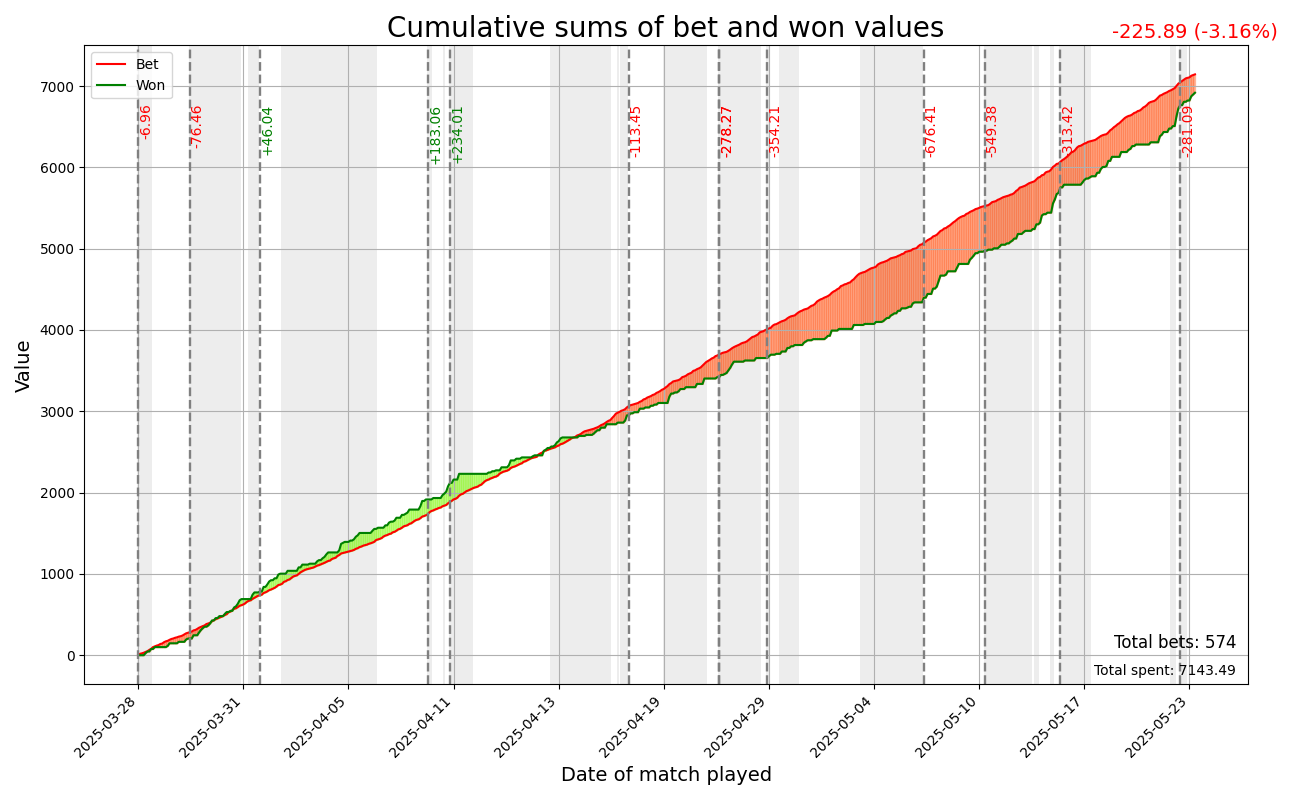
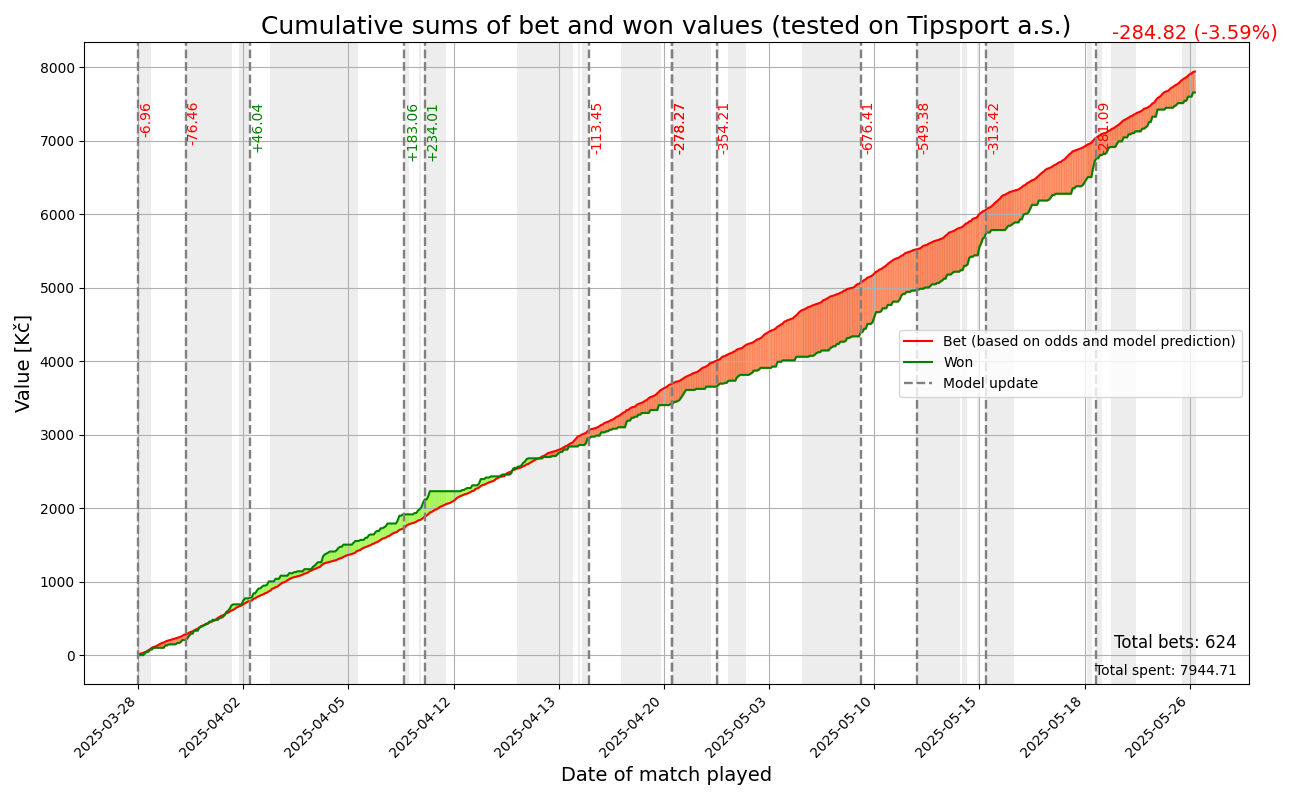
Update records file and graph

diff --git a/src/apifootball_model/records_summary.py b/src/apifootball_model/records_summary.py
@@ -29,7 +29,7 @@ def plot_winning_graph(records_file):
 
     # Plot
     plt.figure(figsize=(13, 8))
-    plt.plot(x, df["cumulative_bet"], label="Bet", color="red")
+    plt.plot(x, df["cumulative_bet"], label="Bet (based on odds and model prediction)", color="red")
     plt.plot(x, df["cumulative_won"], label="Won", color="green")
 
     # Color area between curves
@@ -61,7 +61,8 @@ def plot_winning_graph(records_file):
     for update in model_updates:
         idx = df["match_start_datetime_utc"].searchsorted(update)
         if 0 <= idx < len(df):
-            plt.axvline(x=idx, color="gray", linestyle="--", linewidth=1.7)
+            label = "Model update" if idx == 0 else None
+            plt.axvline(x=idx, label=label, color="gray", linestyle="--", linewidth=1.7)
             diff = df["cumulative_won"].iloc[idx] - df["cumulative_bet"].iloc[idx]
             color = "green" if diff >= 0 else "red"
             plt.text(idx + 0.5, df[["cumulative_bet", "cumulative_won"]].max().max() * 0.95, f"{diff:+.2f}",
@@ -86,8 +87,8 @@ def plot_winning_graph(records_file):
     tick_step = max(1, len(x) // 10)
     plt.xticks(ticks=x[::tick_step], labels=x_labels[::tick_step], rotation=45, ha="right")
     plt.xlabel("Date of match played", fontsize=14)
-    plt.ylabel("Value", fontsize=14)
-    plt.title("Cumulative sums of bet and won values", fontsize=20)
+    plt.ylabel("Value [Kč]", fontsize=14)
+    plt.title("Cumulative sums of bet and won values (tested on Tipsport a.s.)", fontsize=18)
     plt.grid(True)
     plt.legend()
     plt.tight_layout()
